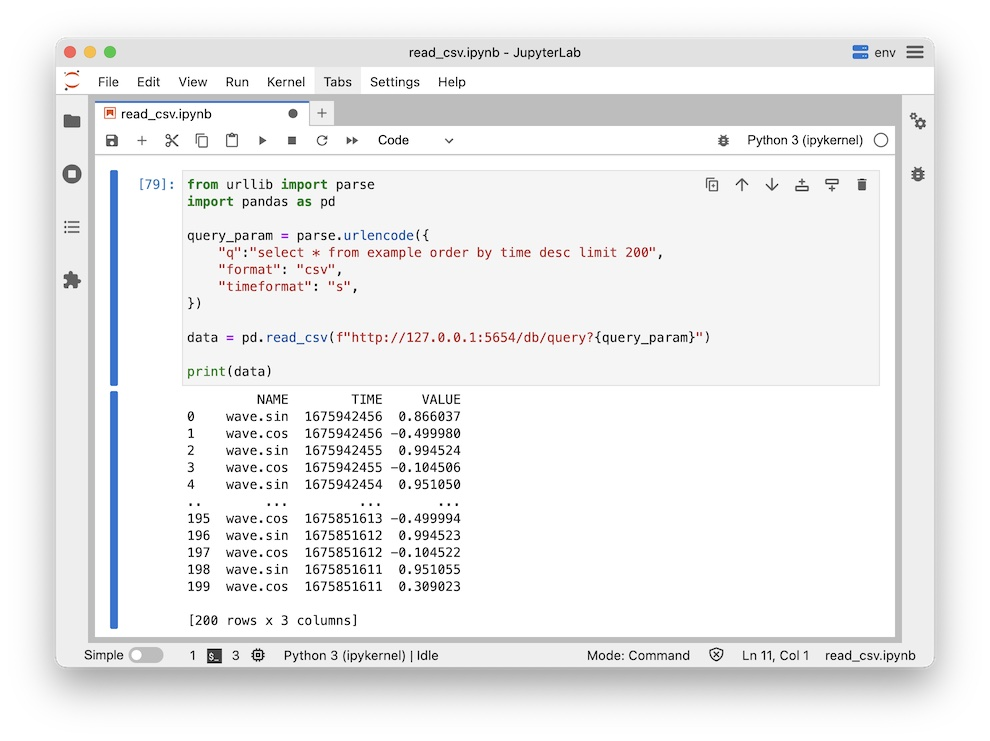
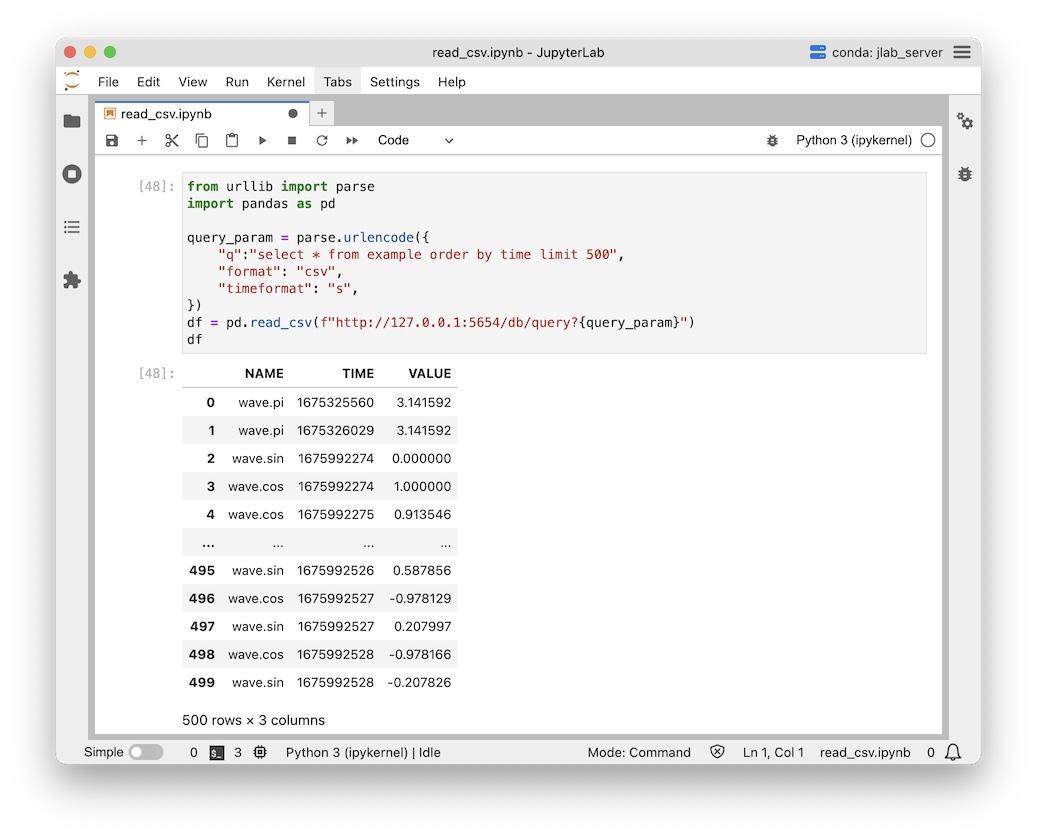
csv example

Changed region(s): [[0.0606, 0.031, 0.9394, 0.9312], [0.7879, 0.2483, 0.8182, 0.2794], [0.6364, 0.3104, 0.6667, 0.3414]]

diff --git a/docs/tutorials/python-http-query.md b/docs/tutorials/python-http-query.md
@@ -1,5 +1,5 @@
 ---
-title: Load Pandas.DataFrame
+title: Load CSV Pandas
 parent: Tutorials
 layout: default
 ---
@@ -9,6 +9,8 @@ layout: default
 This example shows how to load data into pandas dataframe via machbase-neo HTTP API.
 
 ![img](img/python_http_csv.jpg)
+
+## Load CSV
 
 Import pandas and urllib.
 
@@ -22,10 +24,34 @@ Use `timeformat` to specify the precision of time data. `s`, `ms`, `us` and `ns`
 
 ```py
 query_param = parse.urlencode({
-    "q":"select * from example order by time limit 200",
+    "q":"select * from example order by time limit 500",
     "format": "csv",
     "timeformat": "s",
 })
-data = pd.read_csv(f"http://127.0.0.1:5654/db/query?{query_param}")
-print(data)
+df = pd.read_csv(f"http://127.0.0.1:5654/db/query?{query_param}")
+df
 ```
+
+## Load Compressed CSV
+
+Read gzip'ed CSV from HTTP API.
+
+```py
+from urllib import parse
+import pandas as pd
+import requests
+import io
+```
+
+```py
+query_param = parse.urlencode({
+    "q":"select * from example order by time desc limit 1000",
+    "format": "csv",
+    "timeformat": "s",
+    "compress": "gzip",
+})
+response = requests.get(f"http://127.0.0.1:5654/db/query?{query_param}", timeout=30, stream=True)
+df = pd.read_csv(io.BytesIO(response.content))
+df
+```
+
